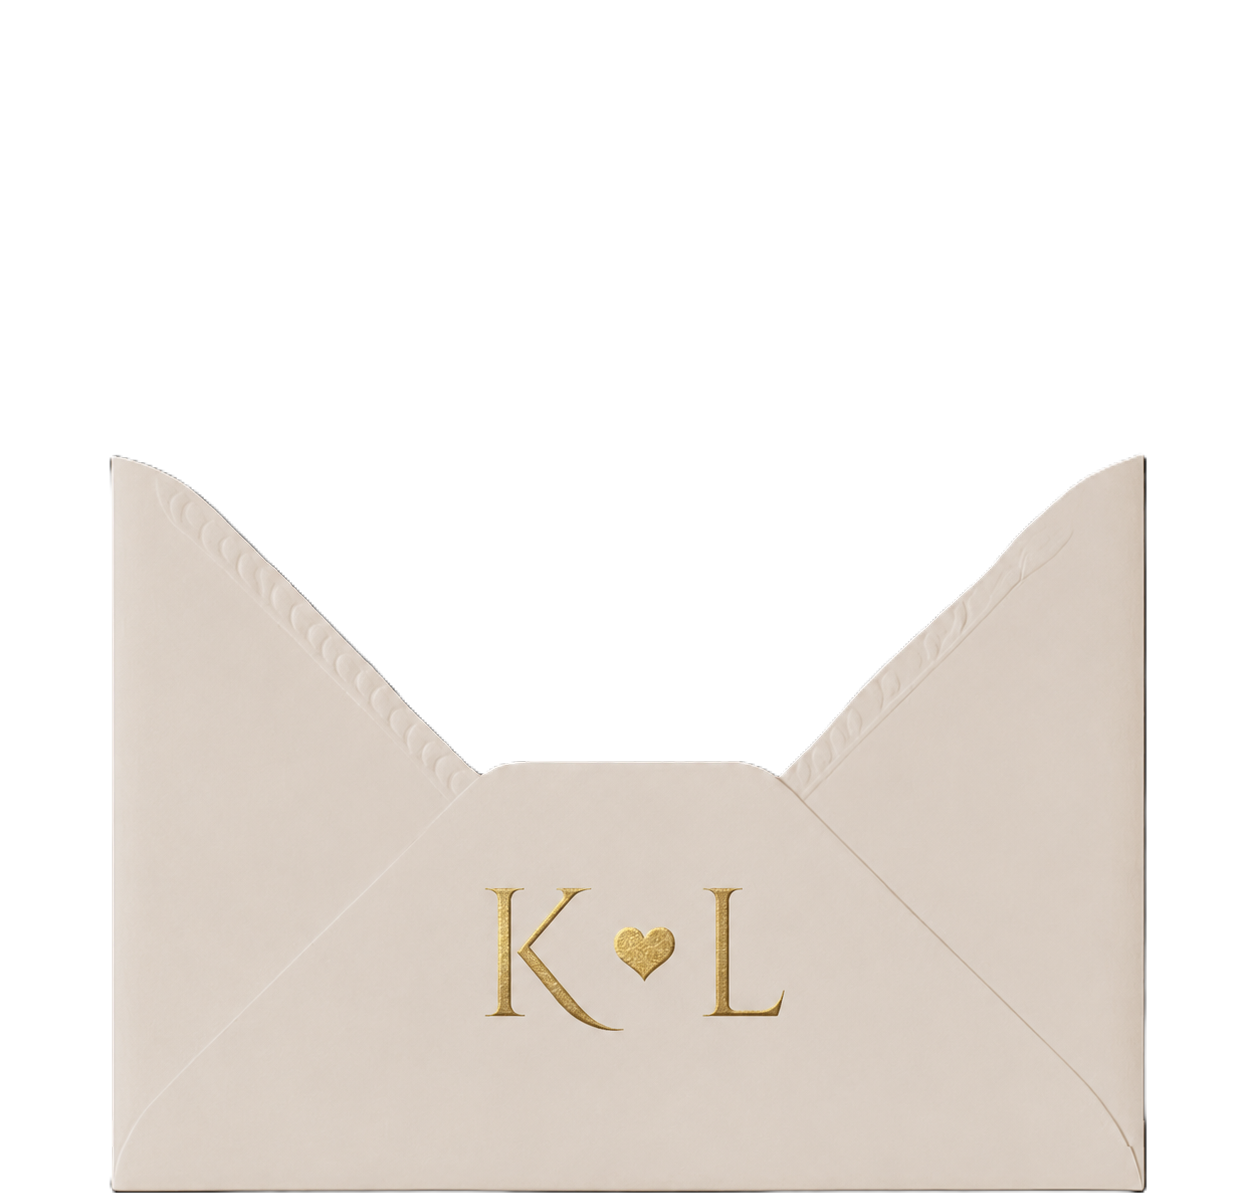
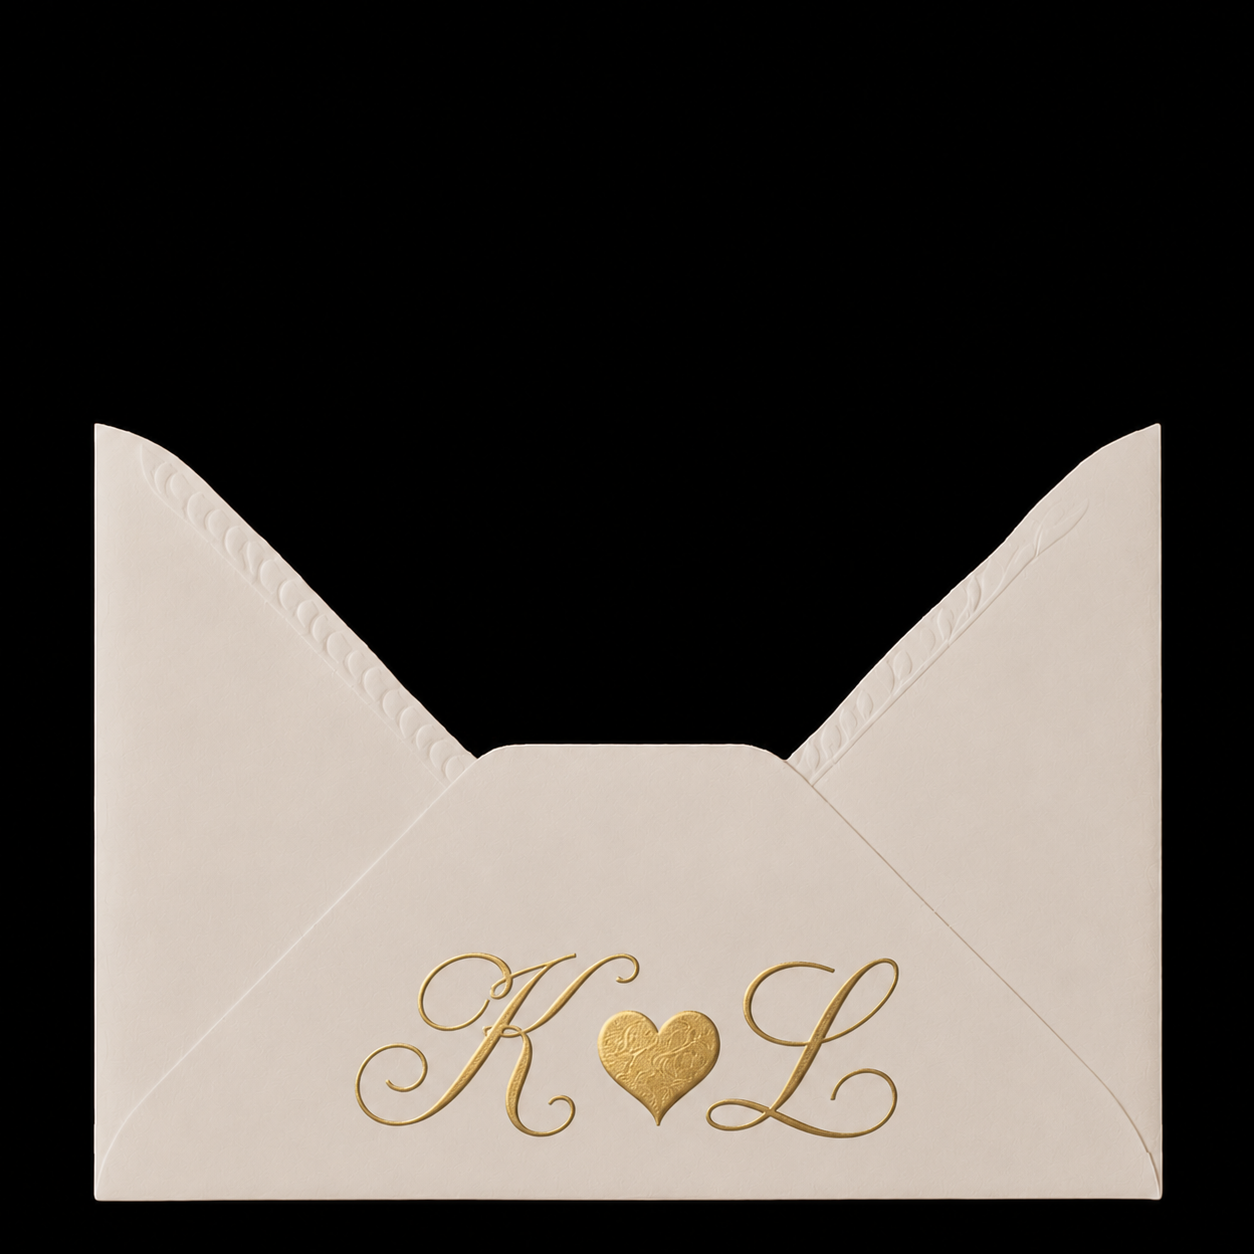
minor changes

diff --git a/index.html b/index.html
@@ -115,7 +115,7 @@
             <li class="event event-three"><time datetime="19:00">7:00</time><span>Dinner</span></li>
             <li class="event event-four"><time datetime="20:00">8:00</time><span>Party</span></li>
             <li class="event event-five"><time datetime="21:00">9:00</time><span>Cake Cutting</span></li>
-            <li class="event event-six"><time datetime="22:00">10:00</time><span>Party</span></li>
+            <li class="event event-six"><time datetime="23:00">11:00</time><span>Party</span></li>
           </ol>
         </div>
       </section>
